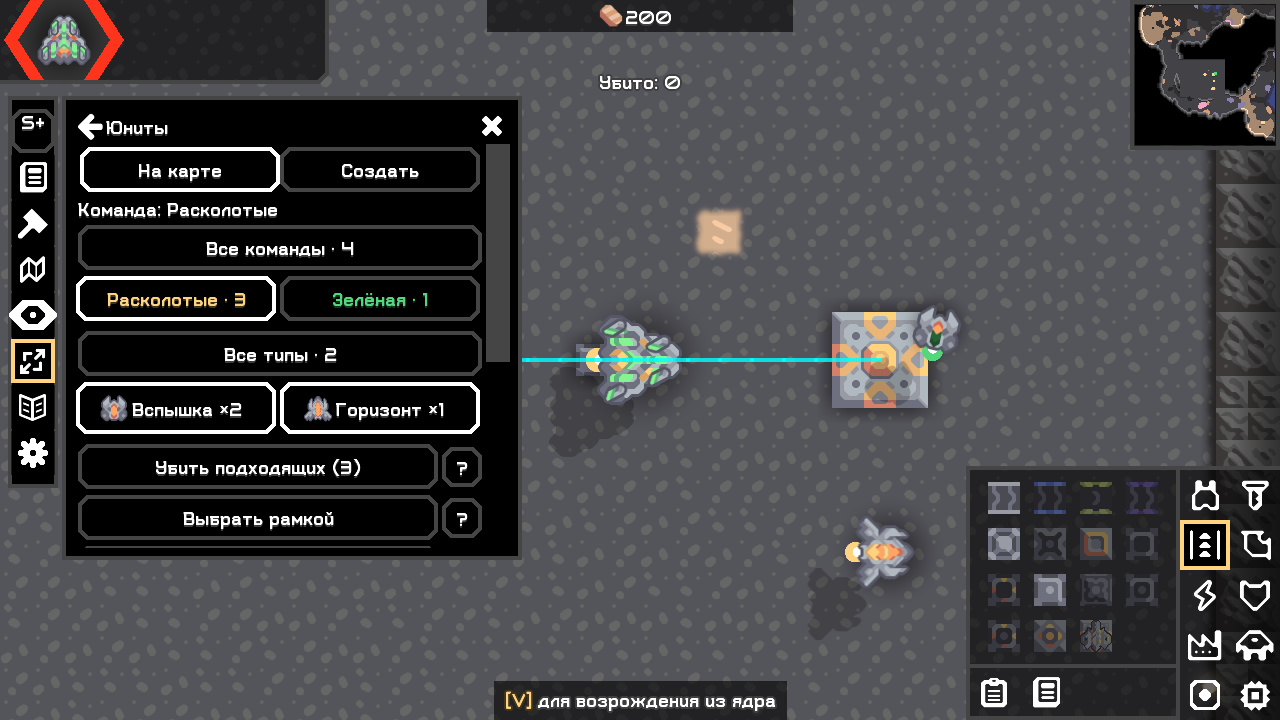
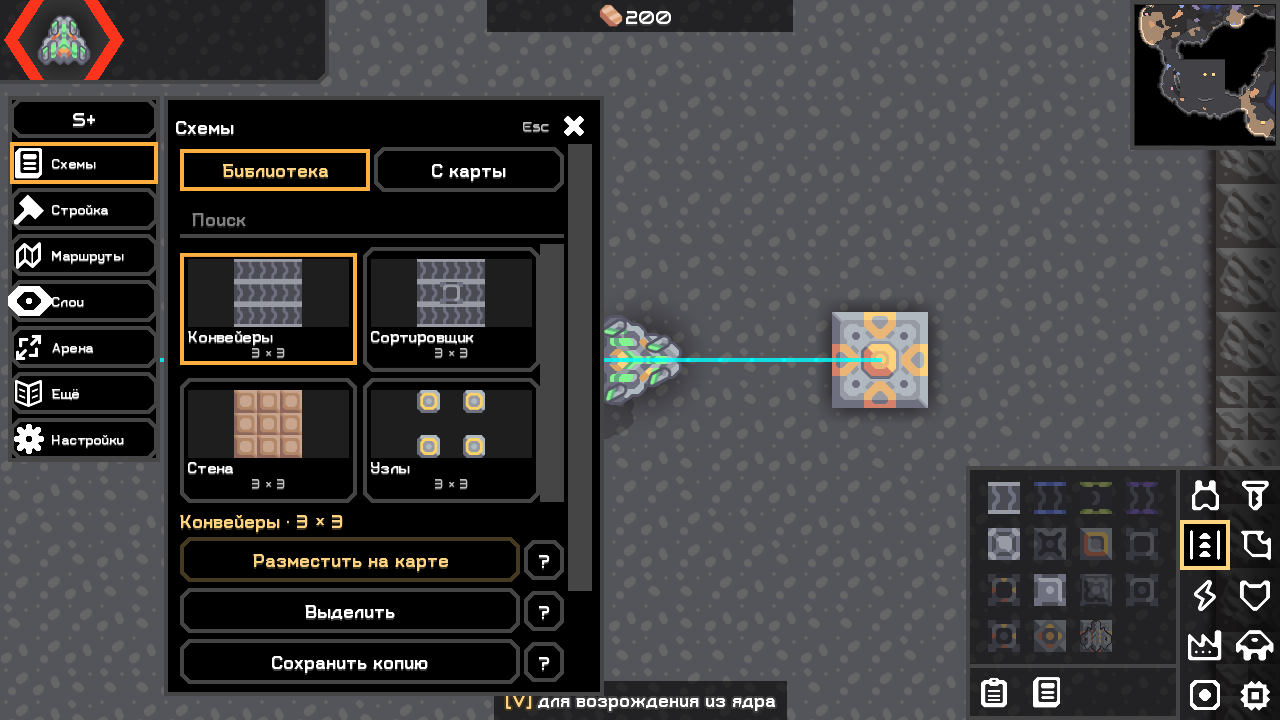
Publish 0.4.0 desktop UI update

diff --git a/README.md b/README.md
@@ -10,7 +10,7 @@
 
 Mindustry **V8 Build 160.7**, настольные Windows/Linux. Windows проверен, Linux пока не проверен. Android не поддерживается.
 
-**Тестовая версия 0.3.1.** Полный паритет с Scheme-Size 2.7.79 не подтверждён. Основной сетевой сценарий — мод у встроенного хоста, гости без модов; проверенные действия и ограничения перечислены в отчётах. WAN пока не проверен.
+**Тестовая версия 0.4.0.** Полный паритет с Scheme-Size 2.7.79 не подтверждён. Основной сетевой сценарий — мод у встроенного хоста, гости без модов; проверенные действия и ограничения перечислены в отчётах. WAN пока не проверен.
 
 ## Установка
 
@@ -22,14 +22,14 @@ Mindustry **V8 Build 160.7**, настольные Windows/Linux. Windows про
 
 ## Интерфейс
 
-![Настоящая игра, версия 0.3.1](screenshot.png)
+![Настоящая игра, версия 0.4.0](screenshot.png)
 
-Юниты → На карте → команда → типы по иконкам → Убить подходящих. Можно выбрать несколько типов, рамку или отдельных юнитов. Управляемые игроками юниты исключаются повторно при исполнении. Native смерть может вызвать побочный урон.
+Юниты → На карте → команда → типы по иконкам → красная кнопка с названием и количеством целей. Можно выбрать несколько типов, рамку или отдельных юнитов. Управляемые игроками юниты исключаются повторно при исполнении. Native смерть может вызвать побочный урон.
 
 ## Исходники и проверки
 
-Это витрина сборок из общей кодовой базы. Исходники: https://github.com/FallAvalon/scheme-size/tree/dddb0ff2c289b79d7ac9e5bcfaa1fa6a596f8ee7
+Это витрина сборок из общей кодовой базы. Исходники: https://github.com/FallAvalon/scheme-size/tree/59d7f69a27520061f257221b890c7574032b0b89
 
-[Матрица реализации](https://github.com/FallAvalon/scheme-size/blob/dddb0ff2c289b79d7ac9e5bcfaa1fa6a596f8ee7/reports/02_o279_implementation_matrix.md) · [Проверки 0.3.1](https://github.com/FallAvalon/scheme-size/blob/dddb0ff2c289b79d7ac9e5bcfaa1fa6a596f8ee7/reports/17_github_publication.md) · [История сетевых проверок](https://github.com/FallAvalon/scheme-size/blob/dddb0ff2c289b79d7ac9e5bcfaa1fa6a596f8ee7/reports/16_roster_icon_publication.md).
+[Матрица реализации](https://github.com/FallAvalon/scheme-size/blob/59d7f69a27520061f257221b890c7574032b0b89/reports/02_o279_implementation_matrix.md) · [Проверки 0.4.0](https://github.com/FallAvalon/scheme-size/blob/59d7f69a27520061f257221b890c7574032b0b89/reports/18_concept_interface.md) · [История сетевых проверок](https://github.com/FallAvalon/scheme-size/blob/59d7f69a27520061f257221b890c7574032b0b89/reports/16_roster_icon_publication.md).
 
 Исходный коммит и хеш манифеста указаны в source.json; к релизу приложен SHA256SUMS.txt. Это самостоятельная реализация, не официальный выпуск оригинального Scheme-Size.

diff --git a/RELEASE_NOTES.md b/RELEASE_NOTES.md
@@ -1,17 +1,17 @@
-# Size Plus (S+) 0.3.1 [v160.7]
+# Size Plus (S+) 0.4.0 [v160.7]
 
 Тестовый выпуск для настольной Mindustry **160.7**.
 
 Схемы и быстрый доступ, импорт изображений, строительные инструменты, визуальные слои и локальный прогноз маршрутов противников по клеткам.
 
-- Собственные названия S+/SG и отдельная минималистичная иконка каждой редакции.
-- Группы юнитов по команде и типам, несколько типов, рамка и отдельные отметки.
-- Общая Java-кодовая база без дублирования реализации. Внутренние ID сохранены для настроек.
+- Подписанные разделы, сворачивание подписей и компактные панели.
+- Карточки схем с превью, вкладки Библиотека / С карты.
+- Карточки юнитов, конкретная кнопка убийства группы, шаги создания и предпросмотр точки на карте. Исправлена отмена правой кнопкой.
 
 Установка: импортировать `scheme-size-plus.jar` через меню модификаций и перезапустить игру. Обычно нужна только одна редакция.
 
-Сборка/check, упаковка, отдельные редакции и совместная загрузка проверены на Windows. Полный отчёт: https://github.com/FallAvalon/scheme-size/blob/dddb0ff2c289b79d7ac9e5bcfaa1fa6a596f8ee7/reports/17_github_publication.md
+Сборка/check, упаковка, отдельные редакции и совместная загрузка проверены на Windows. Полный отчёт: https://github.com/FallAvalon/scheme-size/blob/59d7f69a27520061f257221b890c7574032b0b89/reports/18_concept_interface.md
 
 Linux, WAN и физический OS-ввод не проверены. Полный паритет O279 не заявлен. Android не поддерживается. Смерть юнитов необратима и может вызвать побочный урон.
 
-Вложения: **scheme-size-plus.jar** и **SHA256SUMS.txt**. Исходники: https://github.com/FallAvalon/scheme-size/tree/dddb0ff2c289b79d7ac9e5bcfaa1fa6a596f8ee7
+Вложения: **scheme-size-plus.jar** и **SHA256SUMS.txt**. Исходники: https://github.com/FallAvalon/scheme-size/tree/59d7f69a27520061f257221b890c7574032b0b89
